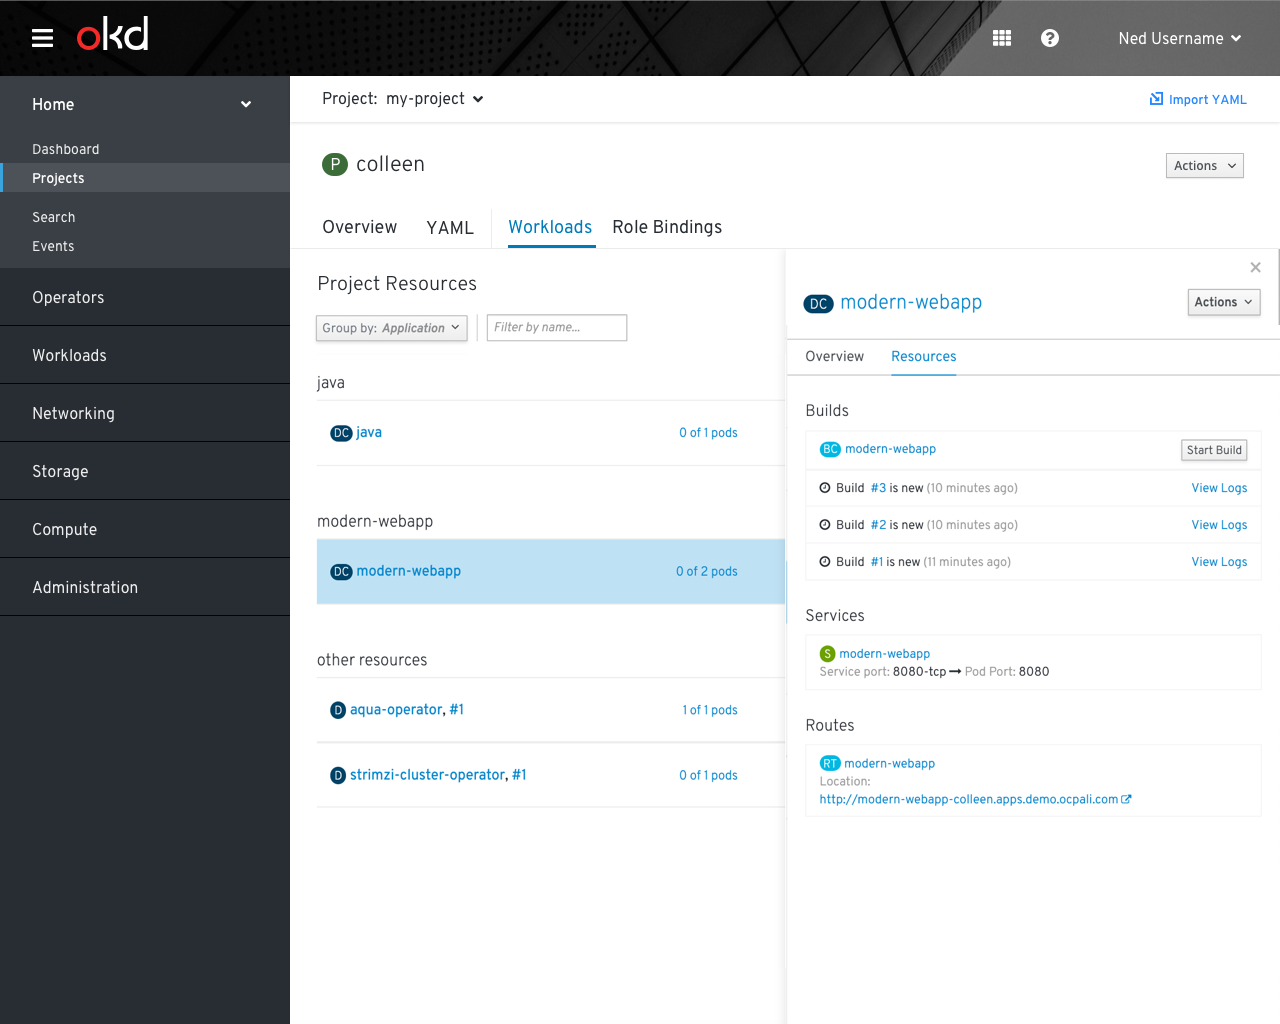
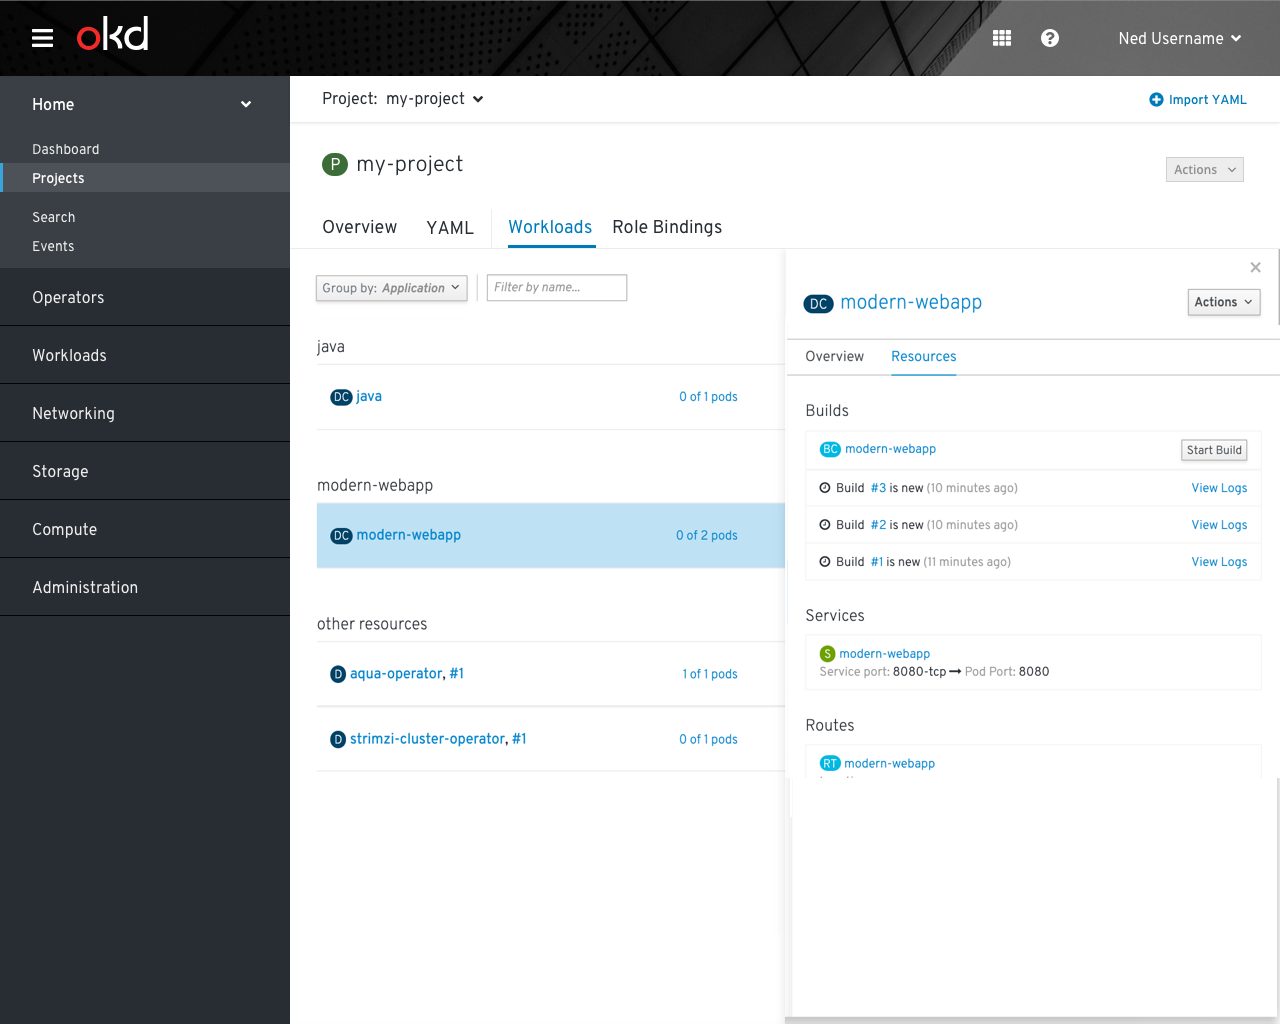
Updates based on feedback

diff --git a/web-console/future-openshift/dashboards/dashboards.md b/web-console/future-openshift/dashboards/dashboards.md
@@ -26,22 +26,28 @@
 ![Dashboard navigation](img/project-list.png)
 
 - The kebab menu should include the following actions: Deploy Image, Edit Role Bindings, Edit Project, and Delete Project
+- `Deploy Image` opens the deploy image form full page. Upon completion of this form, users should be directed to the workloads tab of the project with the newly deployed image.
+- `Edit Role Bindings` opens the project details with the Role Bindings tab selected.
+- `Edit Project`, opens the project details with the YAML tab selected.
+- `Delete Project` opens the delete confirmation modal.
 - The project details view should be accessible by clicking on a project in the project list.
 
 ![Dashboard navigation](img/2-overview-dashboard.png)
 
 - The previous `Status` page included Dashboard and Resources views which will move into the project details area, as separate tabs.
 - Clicking on a project from the list view will open project details with the `Overview` tab displayed by default. The overview dashboard will include sections for the general health, resource quotas, overall resource usage, and project details.
+- The actions available in the actions dropdown should match those shown in the kebab: Deploy Image, Edit Role Bindings, Edit Project, and Delete Project.
 - The project bar should be visible on the project details page for users to switch to a different project as desired. The `Import YAML` action will be shown on the right side of the projects bar so users can quickly add YAML at any point.
 
 ![Dashboard navigation](img/2-resources.png)
 
 - A new `Workloads` tab should be shown after the YAML tab and this view should use the old Resources view content including the details panel.
+- The Project-level Actions dropdown should be **disabled** on the workloads tab when the details panel is open to be sure not to conflict with the resource-level actions inside of a project. 
 
 ![Dashboard navigation](img/2-resources-empty-state.png)
 
 - When there are no resources in a project yet, there should be a standard empty state for this tab.
-- The actions available in the actions dropdown should match those shown in the kebab: Deploy Image, Edit Role Bindings, Edit Project, and Delete Project
+
 
 
 ### Future considerations
